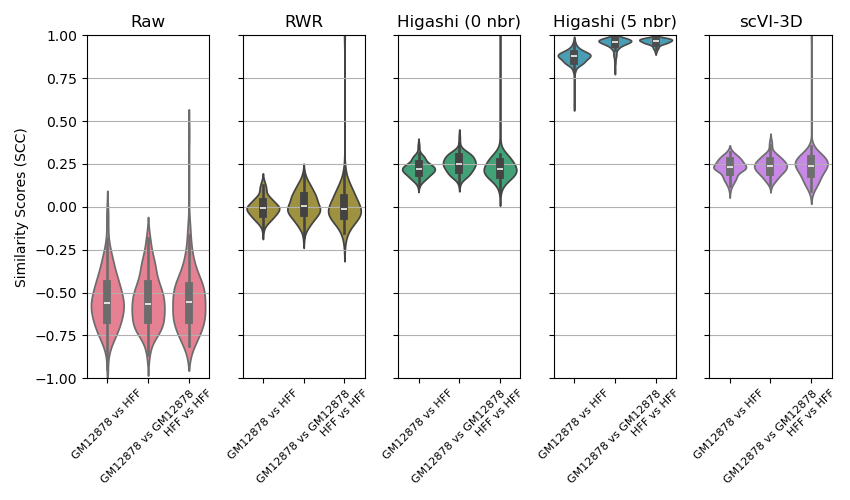
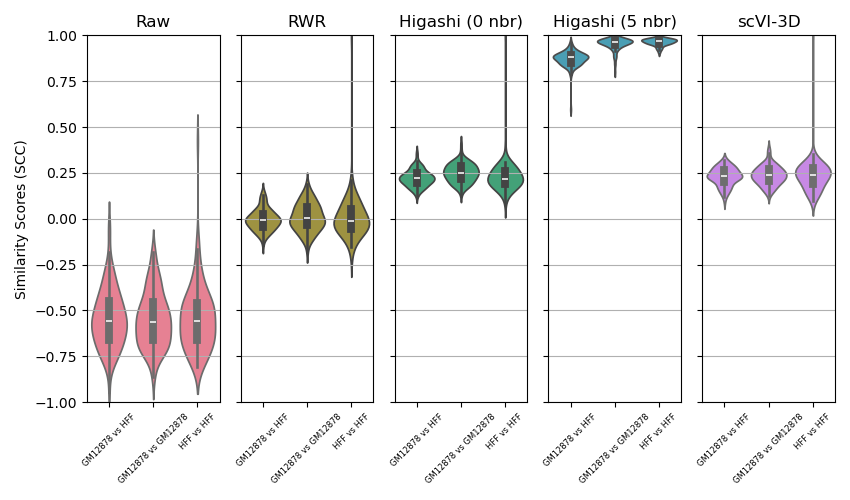
plots

diff --git a/experiments/2023-09-18/plot_SCC_2.py b/experiments/2023-09-18/plot_SCC_2.py
@@ -82,7 +82,7 @@ for i, d in enumerate(dirs):
     sns.violinplot(all_violin_data,ax=ax, palette=[colors[i]]*3)                
     ax.set_ylim(-1, 1)  # Set y-axis limits to [-1, 3]
     ax.set_xticks(x_ticks)
-    ax.set_xticklabels(x_tick_labels, rotation=45,fontsize=8)
+    ax.set_xticklabels(x_tick_labels, rotation=45,fontsize=6)
     ax.set_ylabel('')
     ax.set_title(imp_type_labels[i])
     ax.grid(axis='y')
